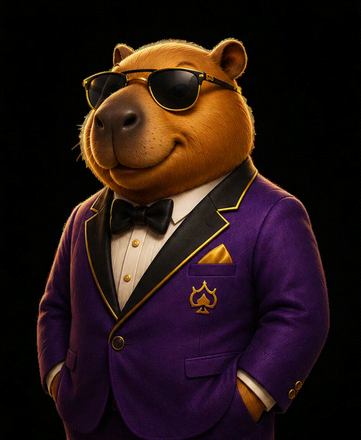
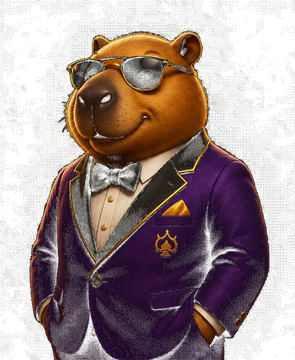
Profile capy: real alpha transparency instead of lighten blend — fixes blue tint, true colors on the dark card

diff --git a/index.html b/index.html
@@ -66,9 +66,8 @@ body.loaded .bar .knob{left:583px}                  /* 71:531: left=583 */
 .xp-cap{display:flex;gap:7px;align-items:center;font-size:15px}
 .xp-cap b{color:#e7e0f6;font-weight:700}
 .xp-cap span{color:#8e82b4}
-.capy{position:absolute;left:1113.5px;top:-1.5px;width:213px;height:222px;overflow:hidden;pointer-events:none;z-index:1; /* 71:535 */
-  mix-blend-mode:lighten}          /* clip's black bg melts into the dark card — no per-frame keying, no flicker */
-.capy img{position:absolute;left:-1px;top:0;height:262px;width:auto;max-width:none;display:block}  /* character at the Figma capy scale */
+.capy{position:absolute;left:1113.5px;top:-1.5px;width:213px;height:222px;overflow:hidden;pointer-events:none;z-index:1} /* 71:535 */
+.capy img{position:absolute;left:-1px;top:0;height:262px;width:auto;max-width:none;display:block;filter:drop-shadow(0 10px 22px rgba(0,0,0,.4))} /* true alpha — no blend, real colors */
 .capy.cheer img{animation:capyCheer .7s ease} /* ANIM */
 @keyframes capyCheer{0%,100%{transform:rotate(0) translateY(0)}25%{transform:rotate(-3deg) translateY(-8px)}60%{transform:rotate(2deg) translateY(-4px)}}
 